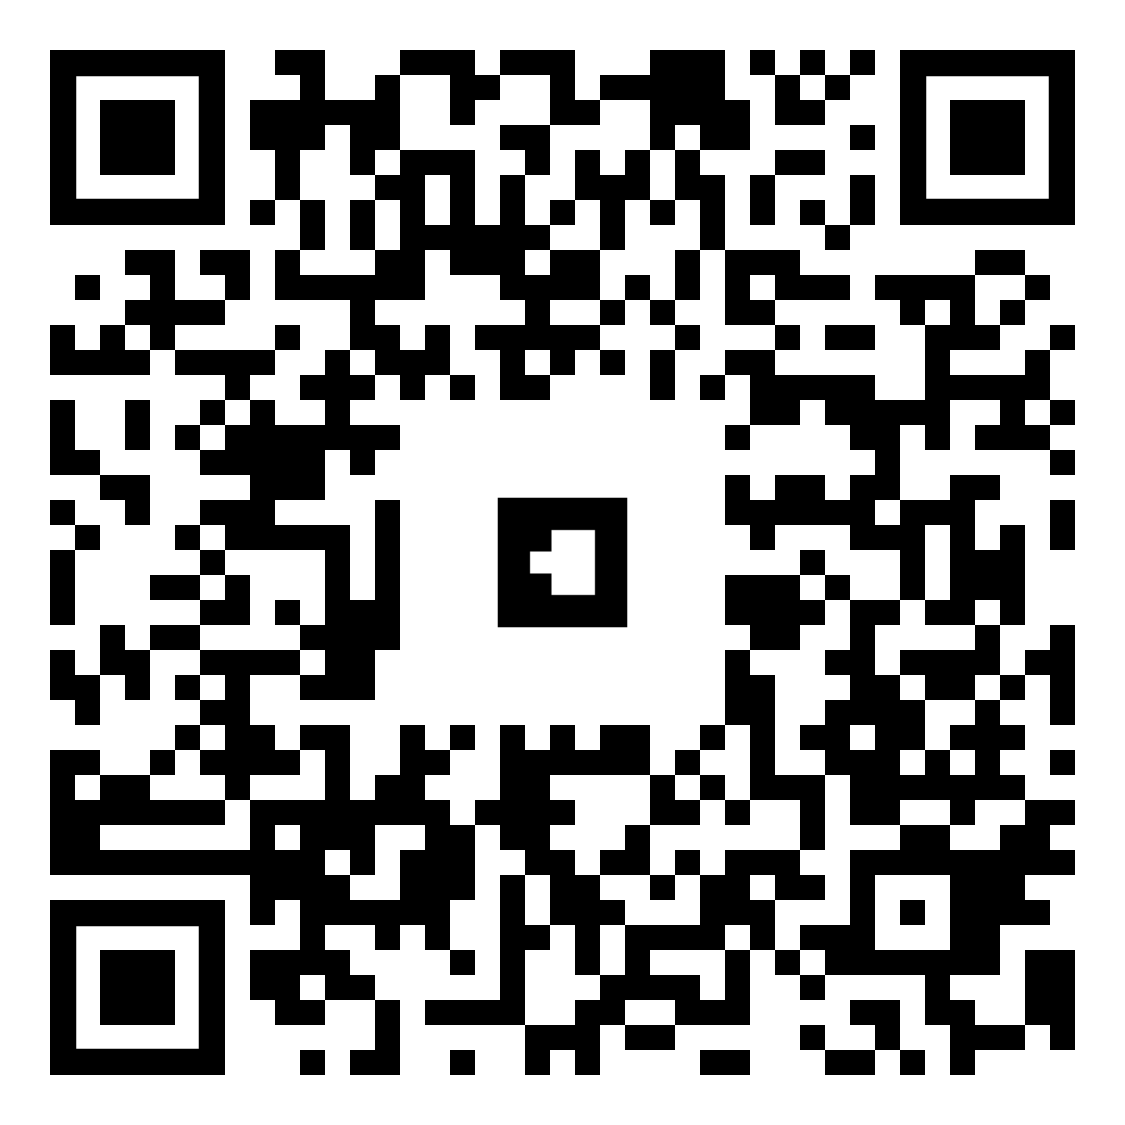
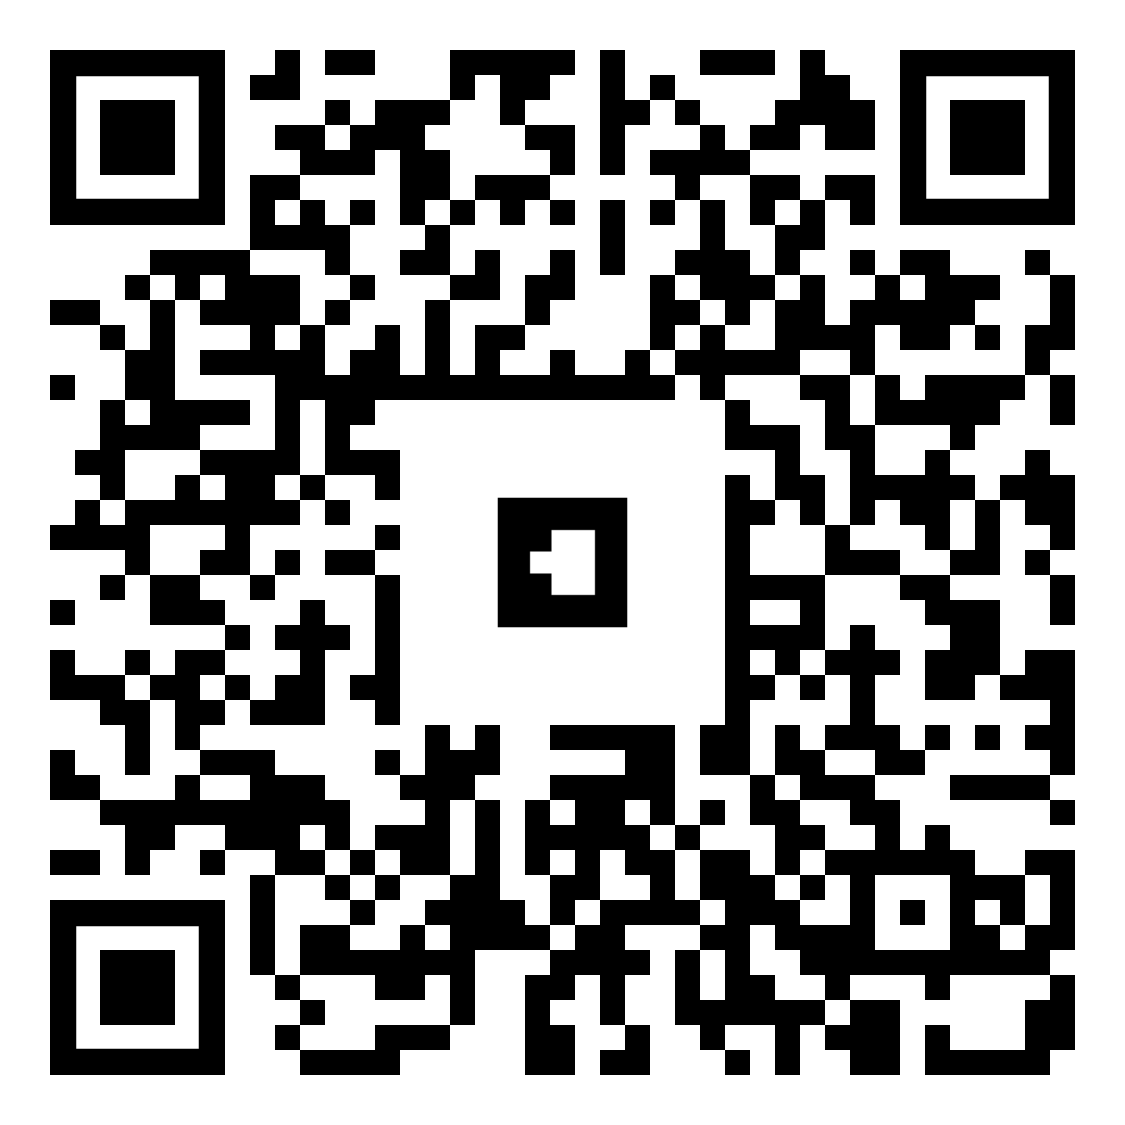
massive changes

diff --git a/redheel.html b/redheel.html
@@ -9,7 +9,7 @@
   </head>
   <body style="margin : 0px; overflow: hidden;">
     <!--<a-scene embedded arjs='sourceType: webcam; debugUIEnabled: false;'>-->
-    <a-scene embedded arjs='sourceType: webcam; debugUIEnabled: false; detectionMode: mono_and_matrix; matrixCodeType: 3x3;'>
+    <a-scene embedded arjs='sourceType: webcam; debugUIEnabled: false; detectionMode: mono_and_matrix; matrixCodeType: 3x3_parity_6_5;'>
 
       <a-assets>
         <a-asset-item response-type="arraybuffer" id="redheel" src="https://arjs-cors-proxy.herokuapp.com/https://raw.githack.com/gOdmOde101/WebAR_JS/master/asset/WF_redheels/scene.gltf"></a-asset-item>

diff --git a/ball.html b/ball.html
@@ -9,7 +9,7 @@
   </head>
   <body style="margin : 0px; overflow: hidden;">
     <!--<a-scene embedded arjs='sourceType: webcam; debugUIEnabled: false;'>-->
-    <a-scene embedded arjs='sourceType: webcam; debugUIEnabled: false; detectionMode: mono_and_matrix; matrixCodeType: 3x3;'>
+    <a-scene embedded arjs='sourceType: webcam; debugUIEnabled: false; detectionMode: mono_and_matrix; matrixCodeType: 3x3_parity_6_5;'>
 
       <a-marker preset="custom" type='barcode' value='0'>
         <a-entity

diff --git a/HeelsWF.html b/HeelsWF.html
@@ -34,7 +34,7 @@
 				</div>
 			<div>
 				<div class="image">
-					<img class="img-responsive" src="./img/qr-code.png" >
+					<img class="img-responsive" src="./img/QRredheel.png" >
 				</div>
 				<div class="para">
 					<h1>How to use:</h1><br>
